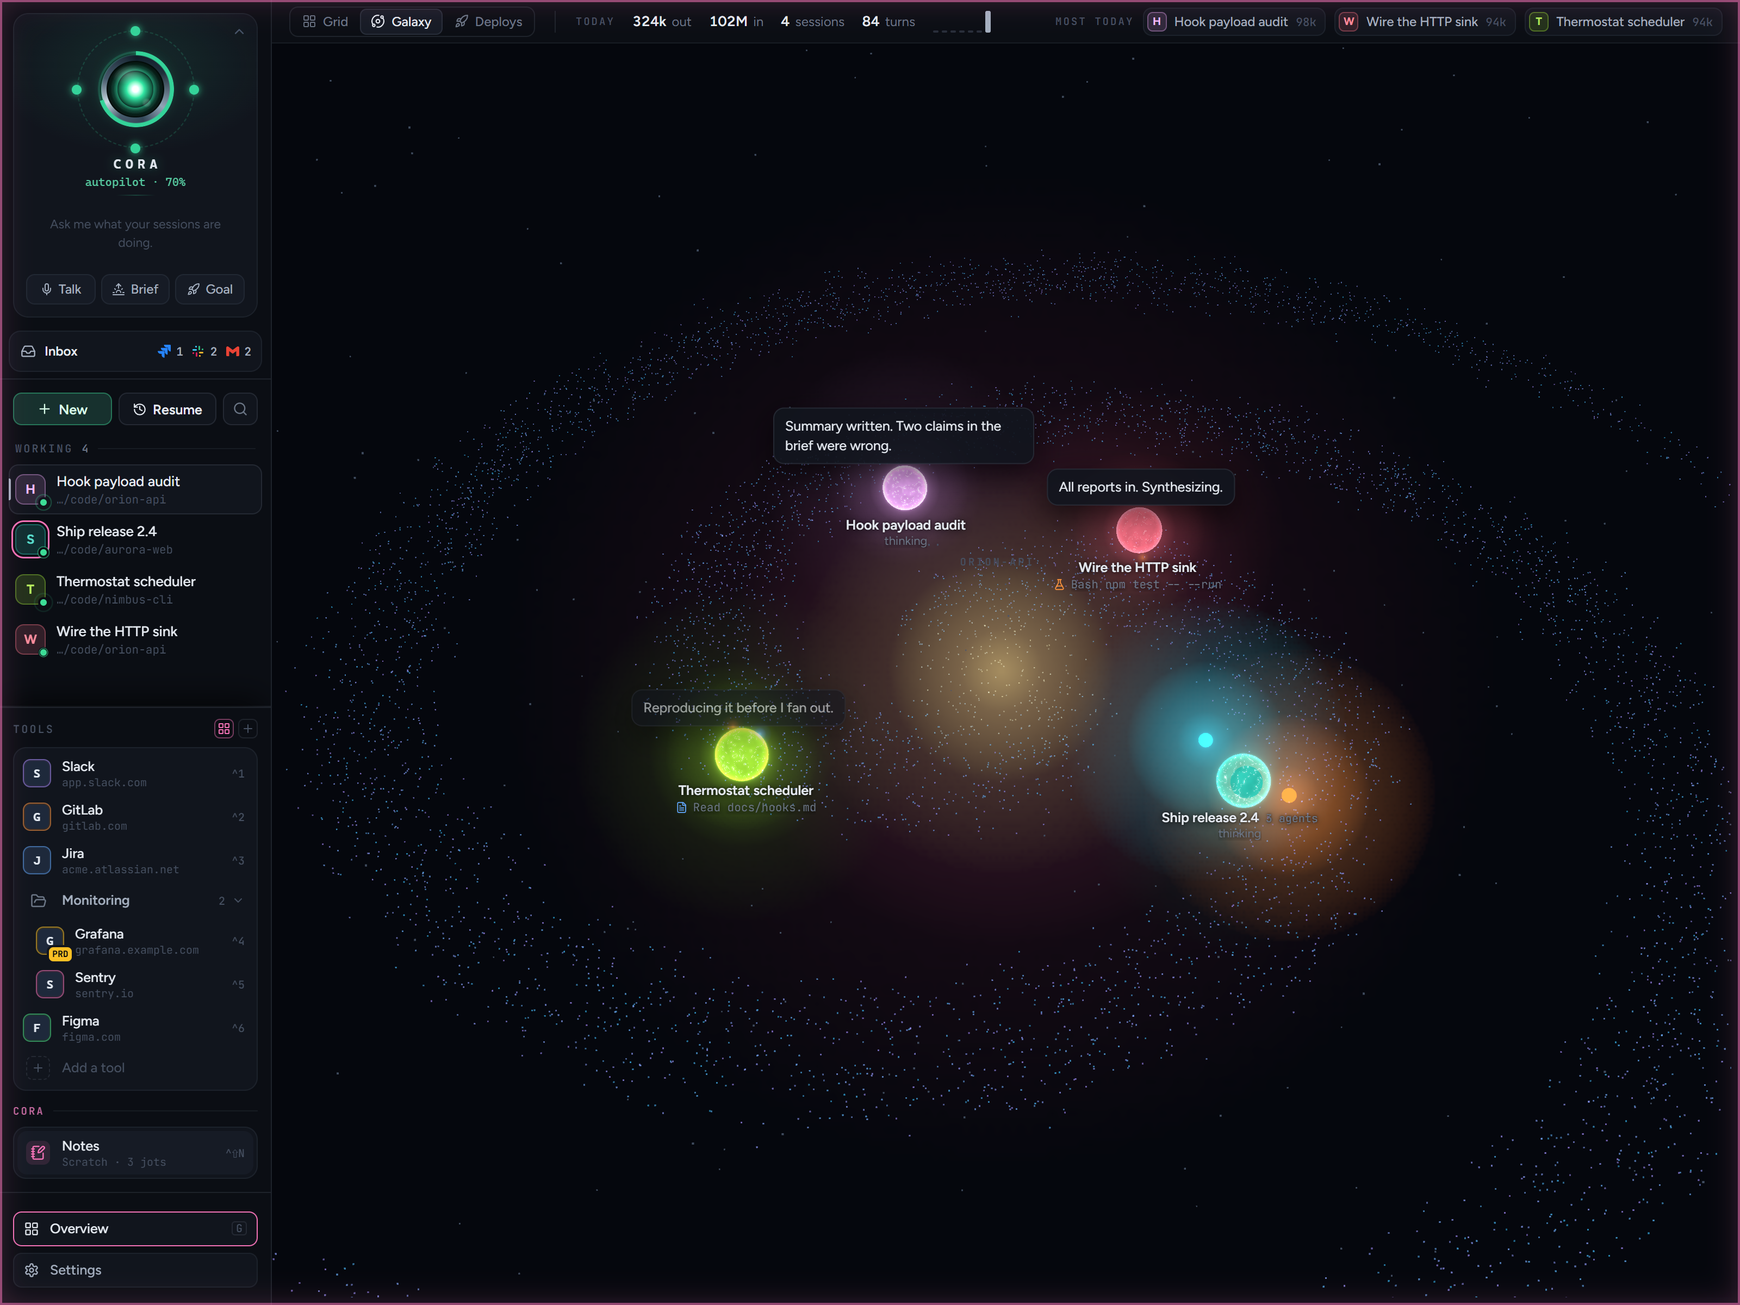
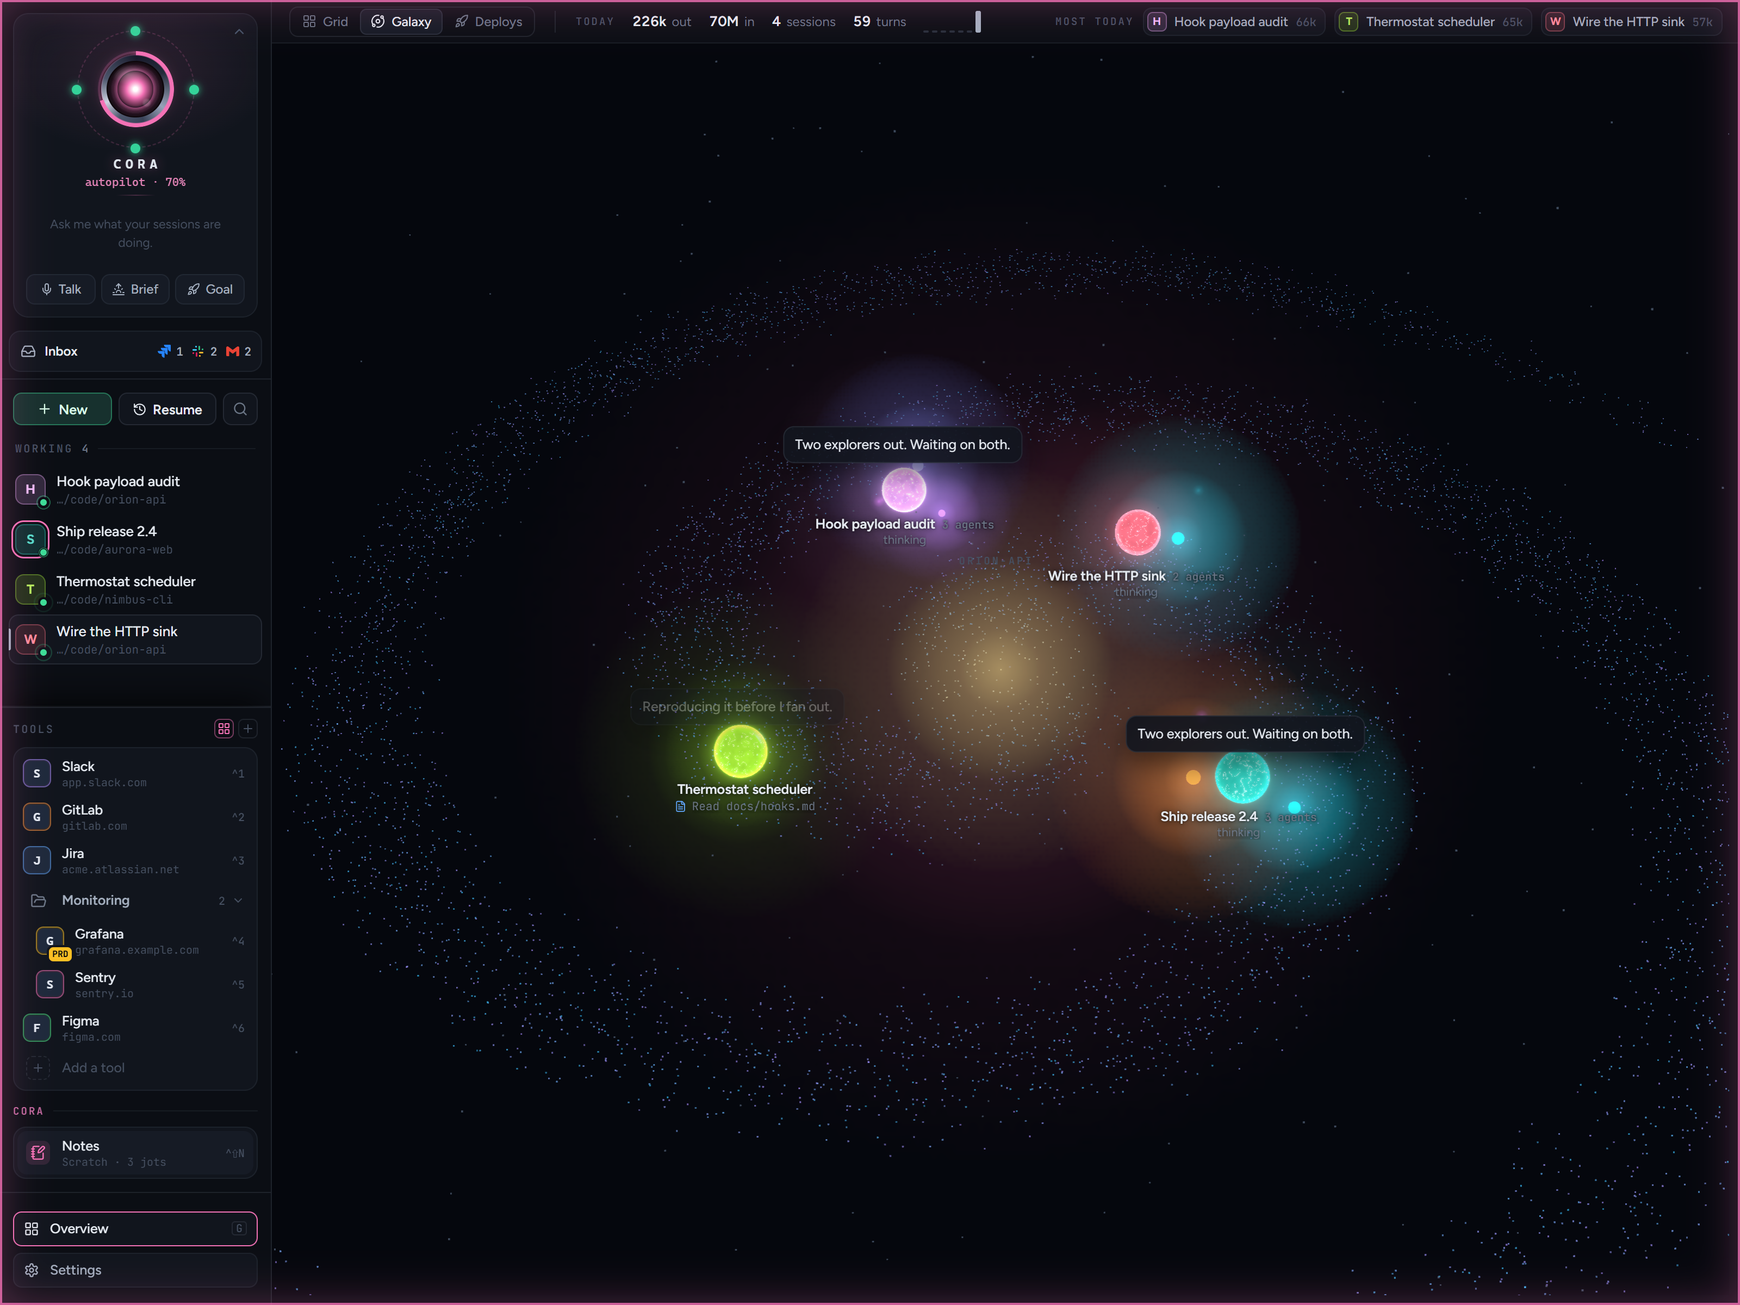
README: Watch them work, and every screenshot in Cora's pink

diff --git a/packages/client/src/components/Transcript.tsx b/packages/client/src/components/Transcript.tsx
@@ -2,7 +2,7 @@ import { useEffect, useMemo, useRef, useState } from 'react';
 import { useVirtualizer } from '@tanstack/react-virtual';
 import { FAM } from '@cora/shared';
 import { agentKey, sessionEvents, useBrain } from '../state/store';
-import { buildSteps, type Step } from '../lib/steps';
+import { buildSteps, type Item, type Step } from '../lib/steps';
 import { agentColor, clock, dur } from '../lib/format';
 import { Icon, Tile } from './Icon';
 import { SaidLine, ToolRow } from './ToolRow';
@@ -76,13 +76,52 @@ function Say({ text, clamp }: { text: string; clamp: boolean }) {
   );
 }
 
-function StepView({ step, sessionId, hosted }: { step: Step; sessionId: string; hosted: boolean }) {
+/** A stretch of a background agent's work as one row (lib/steps): what it's on now; open it for every step. */
+function FoldView({ step, sessionId, hosted }: { step: Step; sessionId: string; hosted: boolean }) {
+  const [open, setOpen] = useState(false);
+  const a = useBrain((s) => s.agents[agentKey(sessionId, step.agentId)]);
+  const setFilter = useBrain((s) => s.setAgentFilter);
+  const tools = step.items.filter((i): i is Extract<Item, { kind: 'tool' }> => i.kind === 'tool');
+  const last = tools.at(-1);
+  const t = (last?.end ?? last?.start)?.tool;
+  const working = a ? a.state !== 'done' && a.state !== 'idle' : false;
+  return (
+    <div className={`step sub fold${step.cont ? ' cont' : ''}`} style={{ ['--c' as any]: agentColor(a) }}>
+      <button className="fold-h" onClick={() => setOpen(!open)} title={open ? 'Fold it again' : 'Show every step of this stretch'}>
+        <Icon name={open ? 'ChevronDown' : 'ChevronRight'} size={12} />
+        <i />
+        <b>{a?.label ?? step.agentId.slice(0, 7)}</b>
+        <span className="fold-s">
+          background · {working ? 'working' : 'done'} · {tools.length} step{tools.length === 1 ? '' : 's'}
+        </span>
+        {t ? (
+          <span className="fold-last">
+            {t.name} {t.summary}
+          </span>
+        ) : null}
+        <span className="ts">{clock((last?.end ?? last?.start)?.ts ?? step.ts)}</span>
+      </button>
+      {open ? (
+        <>
+          <StepView step={step} sessionId={sessionId} hosted={hosted} bare />
+          <button className="fold-tab" onClick={() => setFilter(step.agentId)}>
+            all of its work on its own tab ›
+          </button>
+        </>
+      ) : null}
+    </div>
+  );
+}
+
+/** One step: who, when, what it said, then what it did. `bare`: only what it did (inside a folded row). */
+function StepView({ step, sessionId, hosted, bare }: { step: Step; sessionId: string; hosted: boolean; bare?: boolean }) {
   const agents = useBrain((s) => s.agents);
   const setFilter = useBrain((s) => s.setAgentFilter);
   const a = agents[agentKey(sessionId, step.agentId)];
   const color = agentColor(a);
   const name = step.agentId === 'main' ? 'main' : a?.label ?? step.agentId.slice(0, 7);
 
+  if (bare) return <div className="fold-body">{body()}</div>;
   return (
     <div className={`step${step.agentId === 'main' ? '' : ' sub'}${step.cont ? ' cont' : ''}`} style={{ ['--c' as any]: color }}>
       {step.prompt ? (
@@ -104,8 +143,12 @@ function StepView({ step, sessionId, hosted }: { step: Step; sessionId: string; 
       {step.text ? <Say text={step.text} clamp={hosted && step.agentId === 'main'} /> : null}
       {step.text ? <ReadingLine id={step.key} /> : null}
       {step.said ? <SaidLine id={step.said.id} text={step.said.text} /> : null}
-      <div className="body">
-        {step.items.map((it) => {
+      <div className="body">{body()}</div>
+    </div>
+  );
+
+  function body() {
+    return step.items.map((it) => {
           switch (it.kind) {
             case 'tool':
               return <ToolRow key={it.key} item={it} sessionId={sessionId} />;
@@ -127,6 +170,15 @@ function StepView({ step, sessionId, hosted }: { step: Step; sessionId: string; 
                 </div>
               );
             }
+            case 'note':
+              return it.e.kind === 'prompt' ? (
+                <div key={it.key} className="task">
+                  <span className="pl">its task</span>
+                  <Linkify text={it.e.text ?? ''} jira sessionId={sessionId} />
+                </div>
+              ) : (
+                <Say key={it.key} text={it.e.text ?? ''} clamp={false} />
+              );
             case 'report':
               return (
                 <div key={it.key} className="report">
@@ -154,10 +206,8 @@ function StepView({ step, sessionId, hosted }: { step: Step; sessionId: string; 
                 </div>
               );
           }
-        })}
-      </div>
-    </div>
-  );
+        });
+  }
 }
 
 export function Transcript({ sessionId }: { sessionId: string }) {
@@ -274,7 +324,7 @@ export function Transcript({ sessionId }: { sessionId: string }) {
         <div ref={sizer} style={{ height: virt.getTotalSize(), position: 'relative' }}>
           {virt.getVirtualItems().map((vi) => (
             <div key={steps[vi.index].key} data-index={vi.index} ref={virt.measureElement} className={steps[vi.index].key === atCursor ? 'at-cursor' : undefined} style={{ position: 'absolute', top: 0, left: 0, right: 0, transform: `translateY(${vi.start}px)` }}>
-              <StepView step={steps[vi.index]} sessionId={sessionId} hosted={hosted} />
+              {steps[vi.index].fold ? <FoldView step={steps[vi.index]} sessionId={sessionId} hosted={hosted} /> : <StepView step={steps[vi.index]} sessionId={sessionId} hosted={hosted} />}
             </div>
           ))}
         </div>

diff --git a/packages/client/src/lib/steps.ts b/packages/client/src/lib/steps.ts
@@ -5,6 +5,8 @@ export type Item =
   | { kind: 'think'; key: string; e: BrainEvent }
   | { kind: 'spawn'; key: string; e: BrainEvent; childAgentId?: string }
   | { kind: 'report'; key: string; e: BrainEvent }
+  /** a background agent's narration or task, inside its folded row */
+  | { kind: 'note'; key: string; e: BrainEvent }
   | { kind: 'compact' | 'turn_end' | 'interrupt'; key: string; e: BrainEvent };
 
 export type Step = {
@@ -18,6 +20,8 @@ export type Step = {
   cont: boolean;
   items: Item[];
   fingerprint: IconRef[];
+  /** a stretch of a background agent's work, folded into one row ("All" view only) */
+  fold?: true;
 };
 
 const MAX_FP = 14;
@@ -32,18 +36,46 @@ export const saidId = (e: BrainEvent) => `said:say:${e.id}`;
  * Group an agent's events into readable steps: narration (or a prompt) followed by what the agent did.
  * In the "all" view, when another agent's step intervenes, the next activity opens a "continued" step so
  * live activity always lands at the bottom.
+ *
+ * A background agent (its Agent call returned at once) and the helpers it starts can keep working after main has
+ * replied and finished its turn: in the "all" view that work would bury the reply under its steps, so each stretch of
+ * it after main's turn ends is one folded row (its own tab shows it all; its report shows as usual). While main is
+ * working, everything is inline as it comes.
  */
 export function buildSteps(events: BrainEvent[], filter: 'all' | string, childBySpawn: Map<string, string> = new Map()): Step[] {
   const steps: Step[] = [];
   const current = new Map<string, Step>();
   const toolItems = new Map<string, Extract<Item, { kind: 'tool' }>>();
   const sorted = [...events].sort(byTime);
+  const spawnOf = new Map([...childBySpawn].map(([toolUseId, child]) => [child, toolUseId]));
+  const spawnEnded = new Set<string>();
+  const background = new Set<string>();
+  const folds = new Map<string, { step: Step; at: number }>();
+  // the index of the last step that isn't a fold: a fold row is reused until another agent's step comes after it
+  let lastPlain = -1;
+  // main finished its turn and is waiting for you
+  let mainIdle = false;
 
   const open = (e: BrainEvent, fields: Partial<Step> = {}, cont = false): Step => {
     const s: Step = { key: `${e.id}#step`, agentId: e.agentId, ts: e.ts, cont, items: [], fingerprint: [], ...fields };
     steps.push(s);
     current.set(e.agentId, s);
+    lastPlain = steps.length - 1;
     return s;
+  };
+  const foldFor = (e: BrainEvent): Step => {
+    const had = folds.get(e.agentId);
+    if (had && had.at > lastPlain) return had.step;
+    const s: Step = { key: `${e.id}#fold`, agentId: e.agentId, ts: e.ts, cont: !!had, items: [], fingerprint: [], fold: true };
+    steps.push(s);
+    folds.set(e.agentId, { step: s, at: steps.length - 1 });
+    return s;
+  };
+  const inBackground = (e: BrainEvent): boolean => {
+    if (e.agentId === 'main') return false;
+    const t = spawnOf.get(e.agentId);
+    if (t && spawnEnded.has(t)) background.add(e.agentId);
+    return background.has(e.agentId);
   };
   const stepFor = (e: BrainEvent): Step => {
     const cur = current.get(e.agentId);
@@ -54,6 +86,38 @@ export function buildSteps(events: BrainEvent[], filter: 'all' | string, childBy
 
   for (const e of sorted) {
     if (filter !== 'all' && e.agentId !== filter) continue;
+    if (e.kind === 'tool' && e.phase === 'end' && e.toolUseId && isAgentTool(e)) spawnEnded.add(e.toolUseId);
+    // a helper a background agent starts runs in the background too
+    if (e.kind === 'spawn' && e.toolUseId && background.has(e.agentId)) {
+      const child = childBySpawn.get(e.toolUseId);
+      if (child) background.add(child);
+    }
+    if (e.agentId === 'main') {
+      if (e.kind === 'turn_end') mainIdle = true;
+      else if (e.kind === 'prompt' || e.kind === 'say' || e.kind === 'tool' || e.kind === 'think' || e.kind === 'spawn') mainIdle = false;
+    }
+    if (inBackground(e) && filter === 'all' && mainIdle && e.kind !== 'report') {
+      if (e.kind === 'tool' && isAgentTool(e)) continue;
+      const id = e.toolUseId ?? e.id;
+      const existing = e.kind === 'tool' ? toolItems.get(id) : undefined;
+      if (existing) {
+        if (e.phase === 'end') existing.end = e;
+        else existing.start = e;
+        continue;
+      }
+      const f = foldFor(e);
+      if (e.kind === 'tool') {
+        const item: Extract<Item, { kind: 'tool' }> = { kind: 'tool', key: `tool:${id}`, ...(e.phase === 'end' ? { end: e } : { start: e }) };
+        toolItems.set(id, item);
+        f.items.push(item);
+        if (f.fingerprint.length < MAX_FP) f.fingerprint.push(e.icon);
+      } else if (e.kind === 'say' || e.kind === 'prompt') {
+        if (e.text) f.items.push({ kind: 'note', key: e.id, e });
+      } else if (e.kind === 'think') f.items.push({ kind: 'think', key: e.id, e });
+      else if (e.kind === 'spawn') f.items.push({ kind: 'spawn', key: e.id, e, childAgentId: e.toolUseId ? childBySpawn.get(e.toolUseId) : undefined });
+      else if (e.kind === 'compact' || e.kind === 'interrupt') f.items.push({ kind: e.kind, key: e.id, e });
+      continue;
+    }
     switch (e.kind) {
       case 'say':
         open(e, { text: e.text || undefined, ...(e.said ? { said: { id: saidId(e), text: e.said } } : {}) });

diff --git a/packages/server/src/sim.ts b/packages/server/src/sim.ts
@@ -147,6 +147,9 @@ const TASKS = [
   ['Verify hook facts', 'Explore'], ['Scan transcripts', 'Explore'], ['Map tool payloads', 'general-purpose'],
   ['Audit settings.json', 'Explore'], ['Read prior art', 'general-purpose'], ['Trace SubagentStart', 'Explore'],
 ] as const;
+/** CORA_SIM_WILD=1: sessions fan out wide and deep (screenshots of a busy scene); off, the simulation is as usual */
+const WILD = process.env.CORA_SIM_WILD === '1';
+const HELPERS = ['Dig into the parser', 'Check the hook payloads', 'Trace the sink', 'Read the call sites', ...(WILD ? ['Diff the schemas', 'Probe the retry path', 'Grep the fixtures', 'Replay the failing run'] : [])];
 const REPORTS = [
   'SubagentStart/Stop exist in the CLI; agent_id + agent_type ride on every hook fired inside a subagent.',
   'Subagent transcripts live at <session>/subagents/agent-<id>.jsonl; thinking blocks are present but empty.',
@@ -243,12 +246,12 @@ class SimSession {
       await this.think(agentId, rnd(500, 2200));
       if (Math.random() < 0.4) this.narrate(agentId, pick(LINES));
       // now and then a subagent hands part of its job to one of its own
-      if (i === 1 && depth < 3 && Math.random() < (depth === 1 ? 0.5 : 0.3)) {
-        const name = ['Dig into the parser', 'Check the hook payloads', 'Trace the sink', 'Read the call sites'].find((n) => !this.helpers.has(n));
+      if ((i === 1 || (WILD && i === 2)) && depth < 3 && Math.random() < (WILD ? (depth === 1 ? 0.9 : 0.6) : depth === 1 ? 0.5 : 0.3)) {
+        const name = HELPERS.find((n) => !this.helpers.has(n));
         if (name) {
           this.helpers.add(name);
           this.narrate(agentId, 'Handing part of this to a helper.');
-          await this.spawn(agentId, name, 'Explore', 2 + Math.floor(Math.random() * 3), depth + 1);
+          await this.spawn(agentId, name, 'Explore', (WILD ? 4 : 2) + Math.floor(Math.random() * 3), depth + 1);
           this.helpers.delete(name);
         }
       }
@@ -282,13 +285,15 @@ class SimSession {
       await this.tool('main', calls(this.cwd)[1], rnd(600, 1200));
       await task(0, 'completed');
       await task(1, 'in_progress');
-      if (Math.random() < 0.8) {
-        const k = Math.random() < 0.5 ? 2 : 3;
+      // now and then a helper left working in the background, past the end of the turn (as Claude Code's agents can be)
+      if (Math.random() < (process.env.CORA_SIM_BACKGROUND === '1' ? 1 : 0.25)) void this.spawn('main', 'Watch the pipeline', 'general-purpose', 10 + Math.floor(Math.random() * 6), 1);
+      if (WILD || Math.random() < 0.8) {
+        const k = WILD ? 5 + Math.floor(Math.random() * 2) : Math.random() < 0.5 ? 2 : 3;
         this.narrate('main', k === 3 ? 'Splitting this three ways. Explorers, go.' : 'Two explorers out. Waiting on both.');
         const picked = [...TASKS].sort(() => Math.random() - 0.5).slice(0, k);
         const runs = picked.map(async ([description, type], i) => {
           await sleep(i * 250);
-          await this.spawn('main', description, type, 3 + Math.floor(Math.random() * 4), 1);
+          await this.spawn('main', description, type, (WILD ? 6 : 3) + Math.floor(Math.random() * 4), 1);
         });
         await Promise.all(runs);
         this.narrate('main', 'All reports in. Synthesizing.');

diff --git a/packages/client/test/steps.test.ts b/packages/client/test/steps.test.ts
@@ -77,4 +77,44 @@ describe('buildSteps', () => {
     const b = E({ kind: 'say', text: 'first', ts: 40 });
     expect(buildSteps([a, b], 'all').map((s) => s.text)).toEqual(['first', 'second']);
   });
+
+  it("after main's turn ends, a background agent's work folds into one row per stretch, so the reply isn't buried", () => {
+    const steps = buildSteps([
+      tool('main', 'tA', 'Agent'),
+      E({ kind: 'spawn', toolUseId: 'tA', text: 'Retake screenshots' }),
+      tool('main', 'tA', 'Agent', 'end'), // returns at once: it runs in the background
+      E({ kind: 'prompt', agentId: 'a1', text: 'Retake them' }),
+      tool('a1', 'r1'),
+      E({ kind: 'say', agentId: 'a1', text: 'Two left' }),
+      tool('a1', 'r2', 'Bash'),
+      E({ kind: 'say', text: 'Still waiting on the retakes.' }),
+      E({ kind: 'turn_end' }),
+      tool('a1', 'r3', 'Grep'),
+      E({ kind: 'say', agentId: 'a1', text: 'One left' }),
+      tool('a1', 'r4', 'Bash'),
+      tool('a1', 'r2', 'Bash', 'end'),
+      E({ kind: 'report', agentId: 'a1', text: 'All seven retaken' }),
+      E({ kind: 'prompt', text: 'thanks' }),
+      tool('a1', 'r5'),
+    ], 'all', new Map([['tA', 'a1']]));
+    const label = (s: (typeof steps)[number]) => (s.fold ? `fold:${s.agentId}:${s.items.map((i) => i.kind).join('+')}` : s.prompt ?? s.text ?? s.items[0]?.kind);
+    // while main works: inline, as before; after its turn: one folded row; the report as usual; main busy again: inline
+    expect(steps.map(label)).toEqual(['spawn', 'Retake them', 'Two left', 'Still waiting on the retakes.', 'fold:a1:tool+note+tool', 'report', 'thanks', 'tool']);
+    const r2 = steps[2].items[0];
+    expect(r2.kind === 'tool' && r2.end).toBeTruthy(); // its end still lands on its row
+    // on its own tab, everything as usual
+    expect(buildSteps([tool('main', 'tA', 'Agent'), tool('main', 'tA', 'Agent', 'end'), E({ kind: 'turn_end' }), tool('a1', 'r1')], 'a1', new Map([['tA', 'a1']]))[0].fold).toBeUndefined();
+  });
+
+  it("a foreground agent stays inline; a background agent's helpers fold with it", () => {
+    const fg = buildSteps([tool('main', 'tF', 'Agent'), E({ kind: 'turn_end' }), tool('a2', 'x1'), tool('main', 'tF', 'Agent', 'end')], 'all', new Map([['tF', 'a2']]));
+    expect(fg.some((s) => s.fold)).toBe(false);
+    const bg = buildSteps([
+      tool('main', 'tA', 'Agent'), tool('main', 'tA', 'Agent', 'end'),
+      E({ kind: 'say', text: 'reply' }), E({ kind: 'turn_end' }),
+      tool('a1', 'tH', 'Agent'), E({ kind: 'spawn', agentId: 'a1', toolUseId: 'tH', text: 'helper' }),
+      tool('a3', 'h1'), tool('a1', 'z1'), tool('a3', 'h2'),
+    ], 'all', new Map([['tA', 'a1'], ['tH', 'a3']]));
+    expect(bg.map((s) => (s.fold ? `fold:${s.agentId}:${s.items.length}` : s.text))).toEqual(['reply', 'fold:a1:2', 'fold:a3:2']);
+  });
 });

diff --git a/packages/client/src/components/right.css b/packages/client/src/components/right.css
@@ -88,6 +88,19 @@
 .journal .spawn .ss { color: var(--run); }
 .journal .spawn.done .ss { color: var(--work); }
 .journal .spawn .go { color: var(--ink3); }
+/* a background agent's work after main's turn ended, folded into one row (lib/steps) */
+.journal .step.fold { margin: 4px 0 6px 4px; }
+.journal .fold-h { display: flex; align-items: center; gap: 7px; width: 100%; min-width: 0; overflow: hidden; padding: 4px 0; border: 0; background: none; color: var(--ink4); font: 500 11px var(--code); text-align: left; cursor: pointer; }
+.journal .fold-h > i { flex: none; width: 7px; height: 7px; border-radius: 50%; background: var(--c); }
+.journal .fold-h b { flex: none; color: var(--ink2); font: 600 11.5px var(--ui); }
+.journal .fold-h svg { flex: none; }
+.journal .fold-h .fold-s { flex: 0 1 auto; min-width: 0; overflow: hidden; text-overflow: ellipsis; white-space: nowrap; }
+.journal .fold-h .fold-last { flex: 1 1 0; min-width: 0; overflow: hidden; text-overflow: ellipsis; white-space: nowrap; color: var(--ink3); }
+.journal .fold-h .ts { flex: none; margin-left: auto; }
+.journal .fold-h:hover b { color: var(--ink); }
+.journal .fold-body { padding: 2px 0 4px; }
+.journal .fold-tab { padding: 2px 0 6px; border: 0; background: none; color: var(--ink4); font: 500 10.5px var(--code); cursor: pointer; }
+.journal .fold-tab:hover { color: var(--ink2); }
 .journal .report { margin-top: 6px; padding: 10px 12px; border: 0; border-radius: 10px; background: color-mix(in srgb, var(--work) 5%, var(--raise)); box-shadow: inset 0 0 0 1px color-mix(in srgb, var(--work) 20%, transparent); color: var(--ink); font: 400 12.5px/1.55 var(--ui); }
 .journal .explain-card { margin: 8px 0; padding: 10px 12px; border: 0; border-radius: 10px; background: var(--raise); box-shadow: inset 0 0 0 1px var(--hair2); }
 .journal .explain-card:hover, .journal .explain-card.on { box-shadow: inset 0 0 0 1px rgba(148, 163, 184, .26); }

diff --git a/README.md b/README.md
@@ -56,6 +56,18 @@ already have.
   </tr>
 </table>
 
+## Watch them work
+
+<p align="center">
+  <img src="docs/images/agents.png" alt="Cora's scene for a release session in full swing: the main agent at the centre, a dozen subagents and their helpers fanned out around it, each labelled with what it's doing, sparks running to the files, web and shell they touch, and the model as a star at the edge with the agents waiting on it" width="100%">
+</p>
+
+Every session is a small star system, drawn live from its hooks and transcript. The main agent sits at the centre,
+and each subagent it starts (and each helper those start) gets its own orbit, labelled with what it's doing right now.
+Tool calls fly as sparks to what they touch: files and folders, the web, the shell, a browser. The model burns at the
+edge with a count of the agents waiting on it, and a timeline underneath lets you scrub back through every agent's
+steps. Zoom out and every session on your PC is a star in one galaxy.
+
 ## Your tools, beside your sessions
 
 <p align="center">
